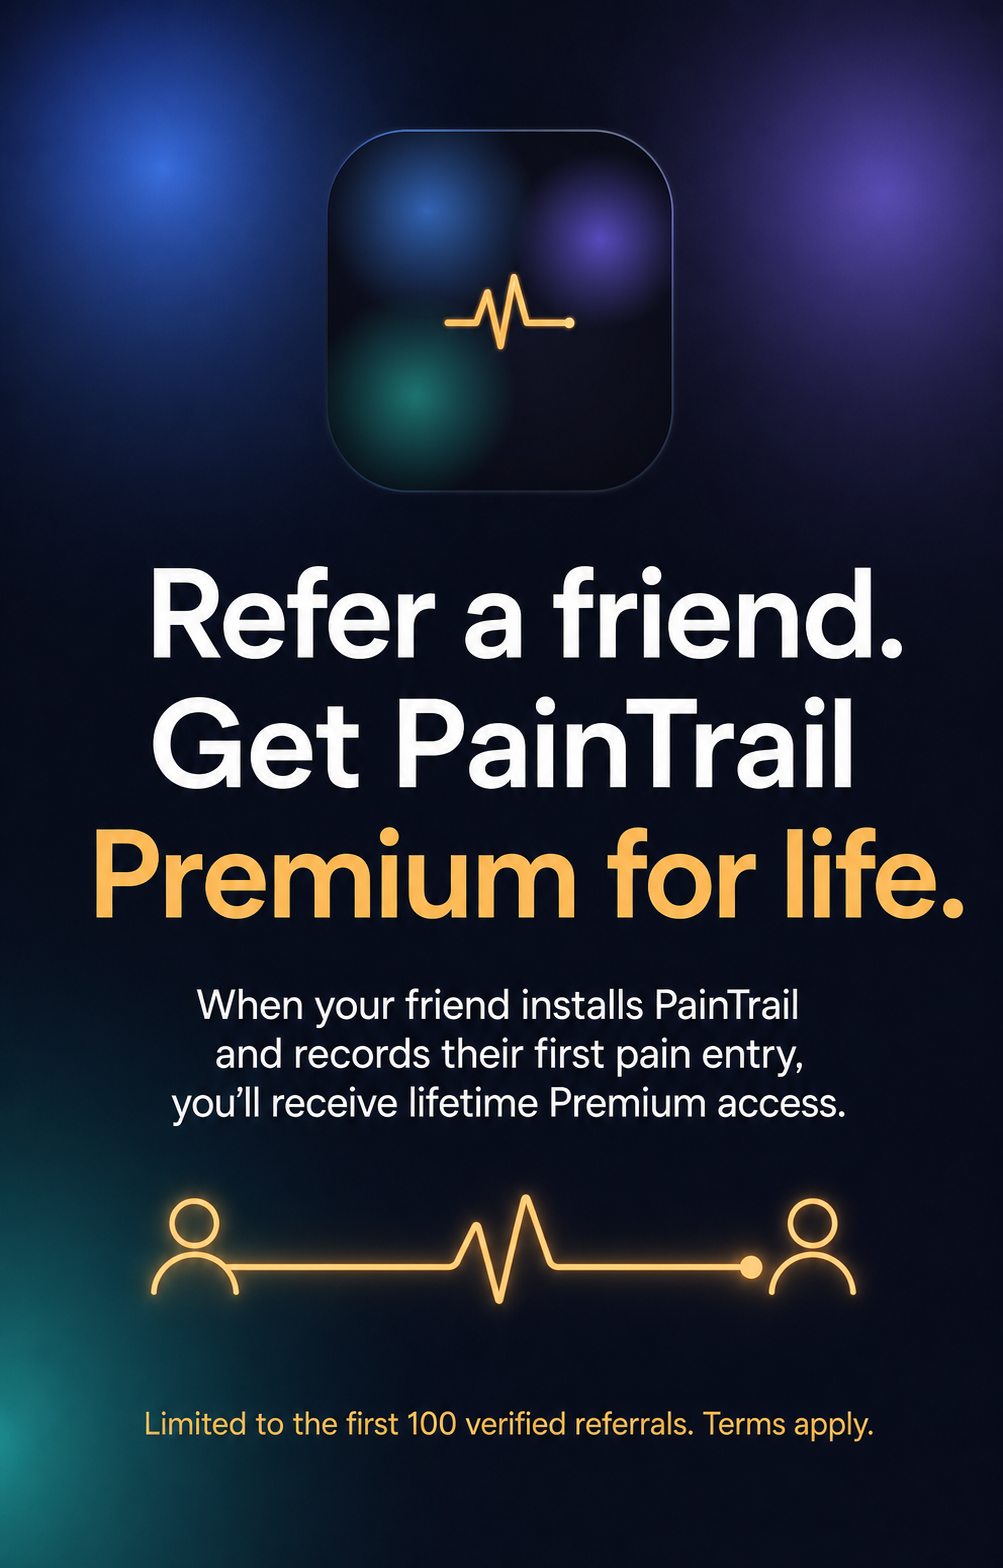
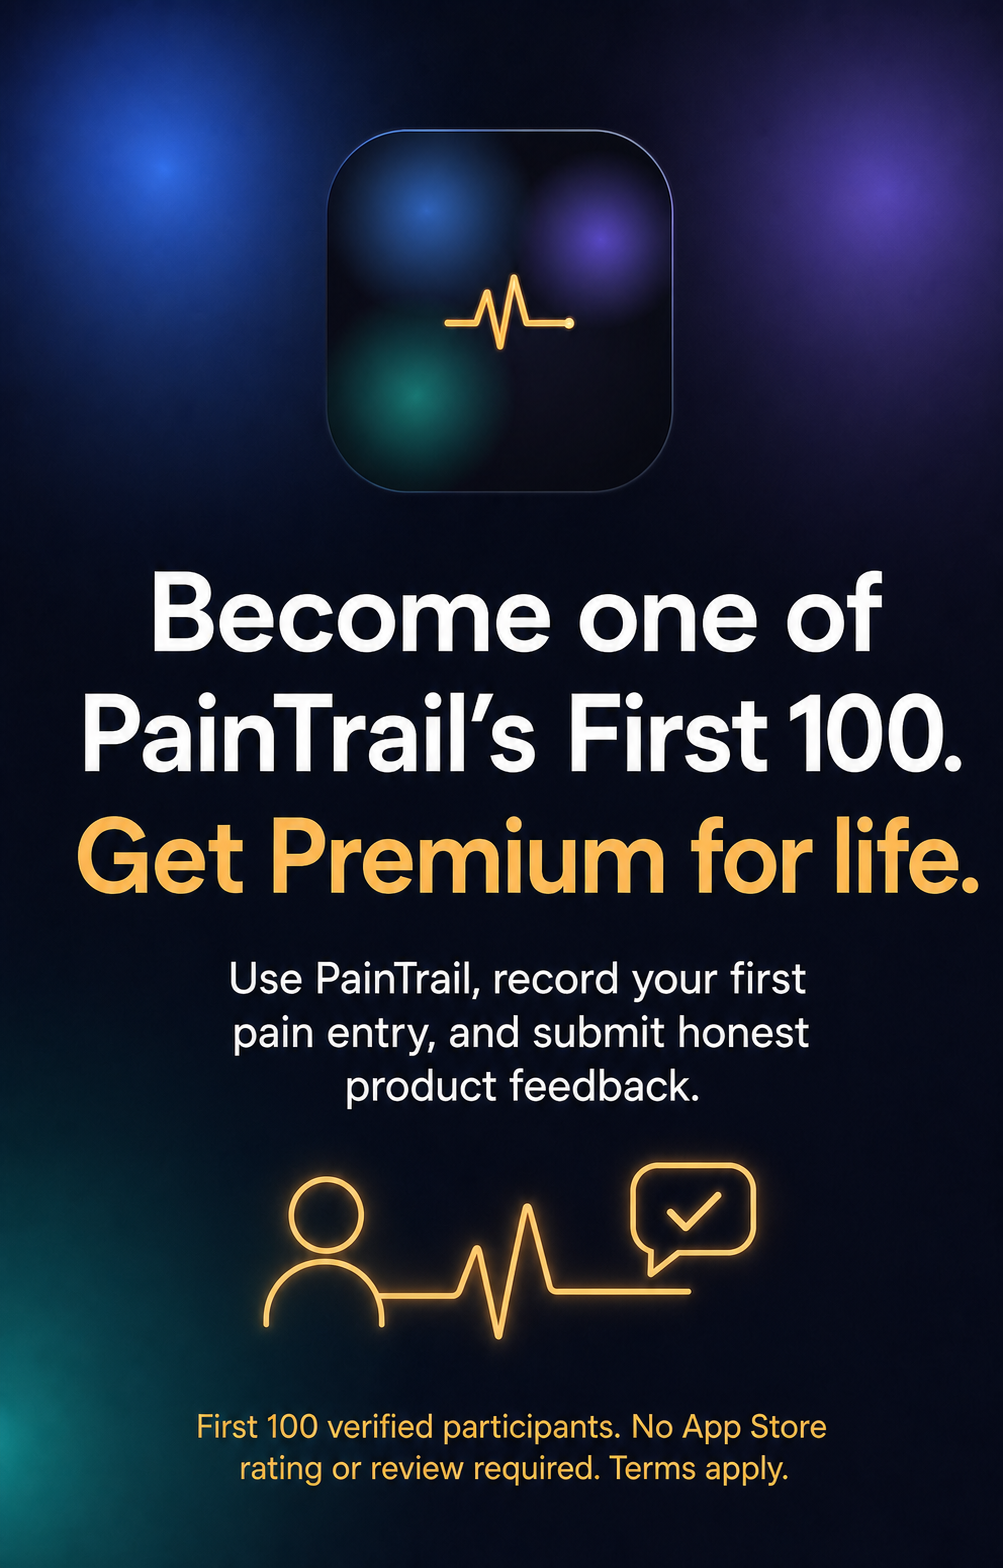
Publish PainTrail First 100 feedback campaign

Changed region(s): [[0.0618, 0.3438, 0.989, 0.9688], [0.4636, 0.1875, 0.5254, 0.2188]]

diff --git a/paintrail-referral.html b/paintrail-referral.html
@@ -3,19 +3,19 @@
   <head>
     <meta charset="utf-8" />
     <meta name="viewport" content="width=device-width, initial-scale=1" />
-    <title>PainTrail First 100 Referral Offer | JBC Development</title>
+    <title>PainTrail First 100 Feedback Offer | JBC Development</title>
     <meta
       name="description"
-      content="Official terms and claim instructions for the PainTrail First 100 referral offer."
+      content="Official terms and claim instructions for the PainTrail First 100 feedback offer."
     />
     <meta name="robots" content="index, follow" />
     <link rel="canonical" href="https://jbcdevelopment.dev/paintrail-referral.html" />
     <meta property="og:type" content="website" />
     <meta property="og:url" content="https://jbcdevelopment.dev/paintrail-referral.html" />
-    <meta property="og:title" content="Refer a friend. Get PainTrail Premium for life." />
+    <meta property="og:title" content="Become one of PainTrail’s First 100. Get Premium for life." />
     <meta
       property="og:description"
-      content="Limited to the first 100 verified PainTrail referrals. Read the official terms and claim instructions."
+      content="Record your first PainTrail entry and submit honest product feedback. Limited to the first 100 verified participants."
     />
     <meta property="og:image" content="https://jbcdevelopment.dev/assets/paintrail-first-100-ad.png" />
     <meta name="twitter:card" content="summary_large_image" />
@@ -62,10 +62,10 @@
     <main id="main" class="content-page shell">
       <header class="content-header">
         <p class="section-label">PainTrail First 100</p>
-        <h1>Refer a friend. Get PainTrail Premium for life.</h1>
+        <h1>Become one of PainTrail’s First 100. Get Premium for life.</h1>
         <p>
-          When your friend installs PainTrail and records their first pain entry,
-          you’ll receive lifetime Premium access. Limited to the first 100 verified referrals.
+          Use PainTrail, record your first pain entry, and submit honest product feedback.
+          The first 100 verified participants receive lifetime Premium access.
         </p>
         <p class="last-updated">Official terms last updated: July 31, 2026</p>
       </header>
@@ -74,36 +74,38 @@
         <article class="content-panel">
           <h2>How to claim</h2>
           <ol>
-            <li>Share PainTrail with a friend and tell them you may receive free Premium if they qualify.</li>
-            <li>Your friend installs PainTrail and records their first pain entry. Their health information stays on their device.</li>
-            <li>Your friend prepares the confirmation email below and copies you, the referrer. They must not include pain details or screenshots.</li>
-            <li>If the claim is among the first 100 valid referrals, JBC Development replies to the referrer with a one-time Apple redemption code.</li>
+            <li>Install PainTrail and record your first pain entry. Your health information stays on your device.</li>
+            <li>Use the email button below to confirm completion and submit honest feedback about the product experience.</li>
+            <li>Do not include pain-entry contents, screenshots, diagnoses, medications, or other health information.</li>
+            <li>If your complete submission is among the first 100 valid entries, we reply with a one-time Apple redemption code.</li>
           </ol>
           <p>
-            <a class="button primary" href="mailto:jbcsdevs@gmail.com?subject=PainTrail%20First%20100%20referral%20confirmation&amp;body=I%20installed%20PainTrail%20and%20recorded%20my%20first%20pain%20entry.%20I%20am%20not%20sharing%20health%20details.%20The%20person%20I%20copied%20on%20this%20email%20referred%20me.%0A%0ABefore%20sending%3A%20Please%20add%20your%20referrer%20to%20the%20Cc%20field.">Prepare confirmation email</a>
+            <a class="button primary" href="mailto:jbcsdevs@gmail.com?subject=PainTrail%20First%20100%20feedback%20submission&amp;body=I%20installed%20PainTrail%20and%20recorded%20my%20first%20pain%20entry.%20I%20am%20not%20sharing%20health%20details.%0A%0AMy%20honest%20product%20feedback%20(do%20not%20include%20health%20information)%3A%0A%5BType%20your%20feedback%20here%5D%0A%0AI%20understand%20that%20no%20App%20Store%20rating%20or%20review%20is%20required.">Prepare feedback email</a>
           </p>
-          <p><strong>Before sending:</strong> add the person who referred you to the Cc field. No health details, pain-entry contents, or screenshots are needed.</p>
+          <p><strong>Before sending:</strong> replace the bracketed prompt with your product feedback. No health details, pain-entry contents, screenshots, App Store rating, or App Store review are needed.</p>
 
           <h2>Official offer terms</h2>
           <ul>
             <li>Open to people age 18 or older where PainTrail and its Apple in-app purchases are available, except where prohibited.</li>
-            <li>A qualifying referral requires a genuinely new PainTrail user to install the app, record a first pain entry, and send the confirmation email while copying the referrer.</li>
-            <li>The first 100 valid claims are determined by the timestamp at which the complete confirmation reaches <a href="mailto:jbcsdevs@gmail.com">jbcsdevs@gmail.com</a>.</li>
-            <li>Each person may receive one reward. Self-referrals, duplicate or automated claims, false confirmations, and attempts to manipulate the offer are ineligible.</li>
+            <li>A qualifying submission requires the participant to install PainTrail, record a first pain entry, and send the fixed eligibility confirmation with meaningful, honest product feedback.</li>
+            <li>The first 100 valid submissions are determined by the timestamp at which the complete feedback email reaches <a href="mailto:jbcsdevs@gmail.com">jbcsdevs@gmail.com</a>.</li>
+            <li>Feedback may be positive, neutral, or critical. No App Store rating or review is required, and the content of any rating or review does not affect eligibility.</li>
+            <li>Each person may receive one reward. Duplicate or automated submissions, false confirmations, placeholder feedback, and attempts to manipulate the offer are ineligible.</li>
             <li>The reward is one Apple offer code granting PainTrail Premium through the app’s non-consumable Premium product. There is no cash alternative or transfer.</li>
             <li>“For life” means the Premium entitlement does not have a recurring expiration while PainTrail remains available and supported. It does not guarantee that the app or App Store will operate indefinitely.</li>
             <li>Winners must redeem their code within 30 days of delivery and before Apple’s stated code expiration date.</li>
-            <li>Public referral posts must clearly disclose the incentive, for example: “I may receive free PainTrail Premium if you join through my referral.” Ratings and reviews are never required.</li>
+            <li>Participants must not be asked to post their feedback publicly. Ratings and reviews are never required or rewarded.</li>
             <li>JBC Software Development LLC may reject fraudulent or incomplete claims and may modify, suspend, or end the offer if fraud, technical failure, legal requirements, or Apple platform limitations prevent fair operation.</li>
             <li>This offer is sponsored solely by JBC Software Development LLC. Apple is not a sponsor and is not involved in administering the offer.</li>
           </ul>
 
-          <h2>Referral privacy</h2>
+          <h2>Privacy</h2>
           <p>
-            Referral emails are used only to verify eligibility, prevent duplicate rewards,
-            deliver the Apple code, and administer this campaign. Do not send health information.
-            Campaign records are retained only as reasonably needed for administration, fraud
-            prevention, and legal or accounting obligations. Read the
+            Feedback emails are used only to improve PainTrail, verify eligibility, prevent
+            duplicate rewards, deliver the Apple code, and administer this campaign. Do not
+            send health information. Campaign records are retained only as reasonably needed
+            for product feedback, administration, fraud prevention, and legal or accounting
+            obligations. Read the
             <a href="/privacy.html#paintrail-privacy">PainTrail privacy policy</a>.
           </p>
           <p>
@@ -113,7 +115,7 @@
           </p>
         </article>
 
-        <aside class="side-panel" aria-label="PainTrail referral links">
+        <aside class="side-panel" aria-label="PainTrail campaign links">
           <img src="/assets/app-icons/paintrail-256.png" alt="PainTrail app icon" width="144" height="144" style="border-radius: 30px;" />
           <h2>Get PainTrail</h2>
           <p>Private pain and symptom tracking with no account, advertising, or analytics.</p>

diff --git a/privacy.html b/privacy.html
@@ -290,14 +290,16 @@
               information.
             </p>
             <p>
-              If a user voluntarily participates in a PainTrail referral campaign, the user
-              may email JBC Software Development LLC and copy the person who made the referral.
-              Email addresses, the received timestamp, eligibility confirmation, and reward
-              status are used only to administer the campaign, prevent duplicate rewards, and
-              deliver an Apple offer code. Participants should not send pain entries,
-              screenshots, diagnoses, medications, or other health information. Referral
-              records are retained only as reasonably needed for campaign administration,
-              fraud prevention, and legal or accounting obligations.
+              If a user voluntarily participates in the PainTrail First 100 feedback campaign,
+              the user may email JBC Software Development LLC an eligibility confirmation and
+              honest product feedback. The email address, received timestamp, feedback,
+              eligibility confirmation, and reward-fulfillment status are used only to improve
+              PainTrail, administer the campaign, prevent duplicate rewards, and deliver an
+              Apple offer code. Participants should not send pain entries, screenshots,
+              diagnoses, medications, or other health information. An App Store rating or
+              review is never required. Campaign records are retained only as reasonably needed
+              for product feedback, campaign administration, fraud prevention, and legal or
+              accounting obligations.
             </p>
             <p>
               Deleting PainTrail removes data stored inside the app from the device. PainTrail

diff --git a/WEBSITE_RELEASE_CHECKLIST.md b/WEBSITE_RELEASE_CHECKLIST.md
@@ -2,6 +2,21 @@
 
 Use this checklist before deploying updates to `jbcdevelopment.dev`.
 
+## PainTrail First 100 Feedback Campaign — July 31, 2026
+
+- Scope: replace the referral offer with an honest product-feedback offer on
+  `paintrail-referral.html`, update the matching PainTrail disclosure in
+  `privacy.html`, and replace the social preview artwork.
+- Approval: Jonathan explicitly approved publishing the campaign on July 31,
+  2026.
+- Privacy: participants are told not to submit health information; no App Store
+  rating or review is required or rewarded.
+- Intake: existing user-reviewed `mailto:` flow only; no backend, analytics,
+  tracking, or automatic response was added.
+- Rollback point: record the pre-deploy `main` commit immediately before push.
+- Validation: local HTTP, copy-length, mailto template, 100-slot ledger, HTML
+  structure, internal links, and whitespace checks must pass before push.
+
 This file is for readiness review only. It does not deploy, publish, change DNS, send email, or contact anyone.
 
 ## Pending Review: M5SteamBridge Open-Source Landing Page
